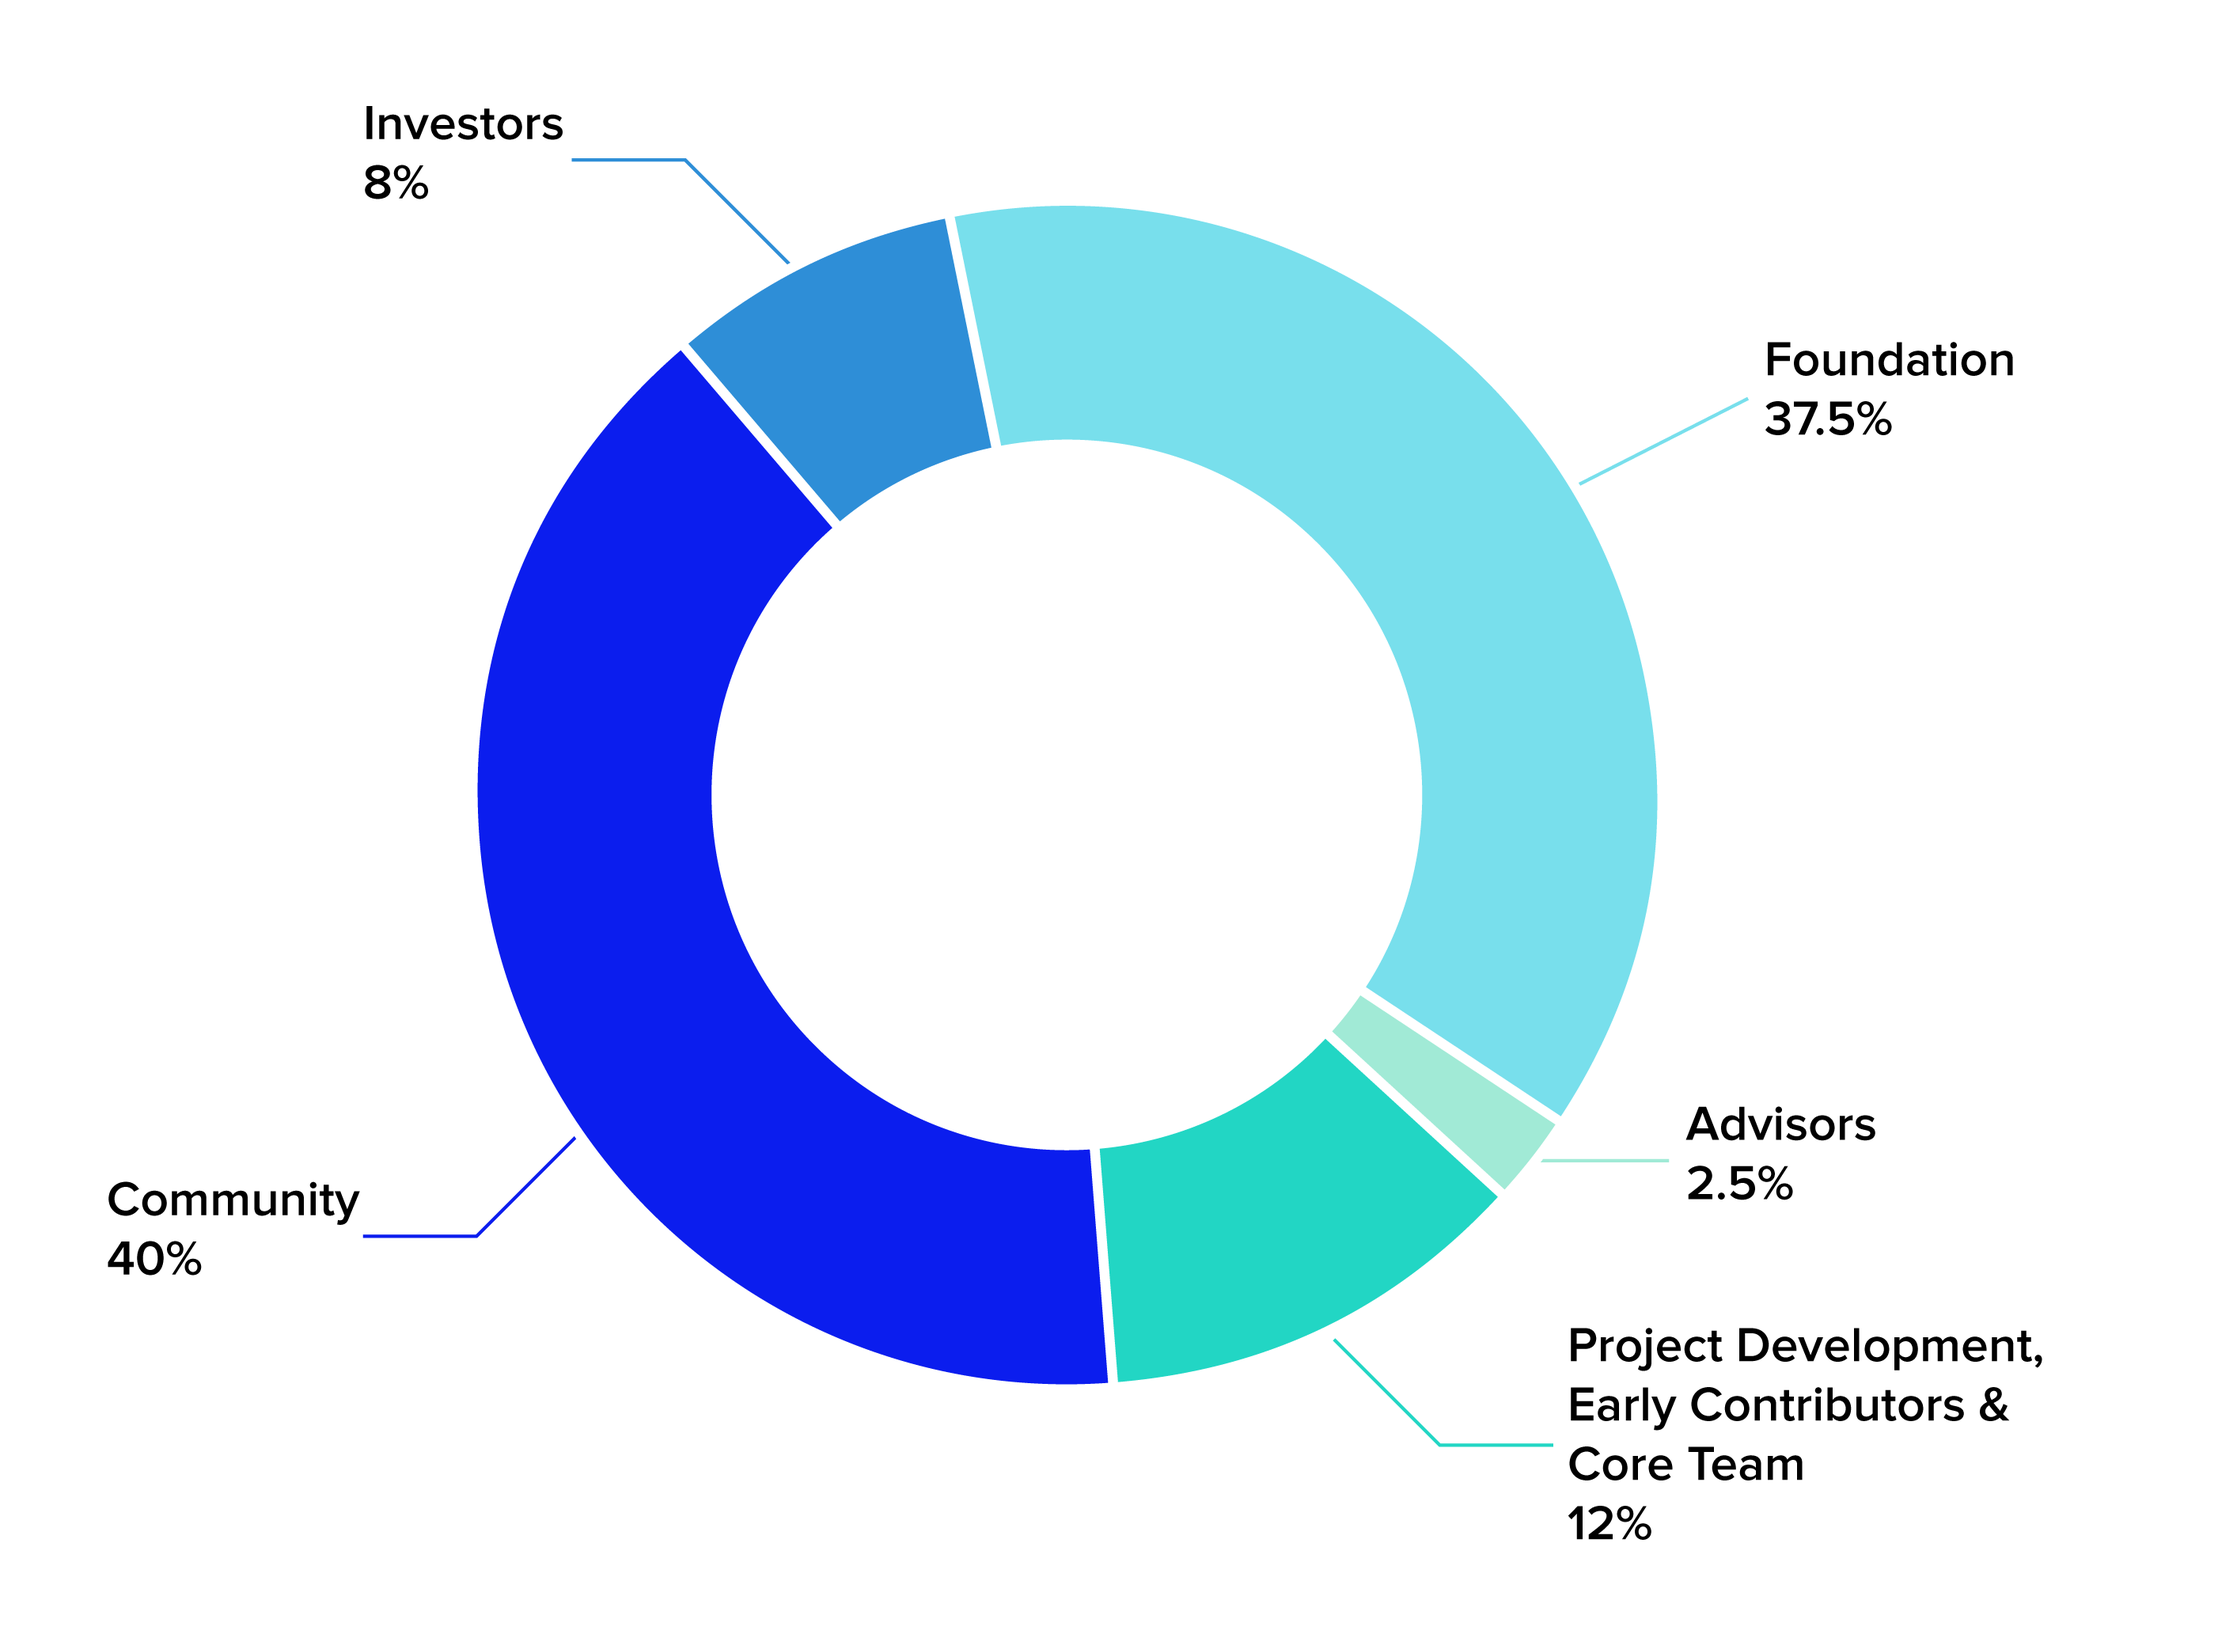
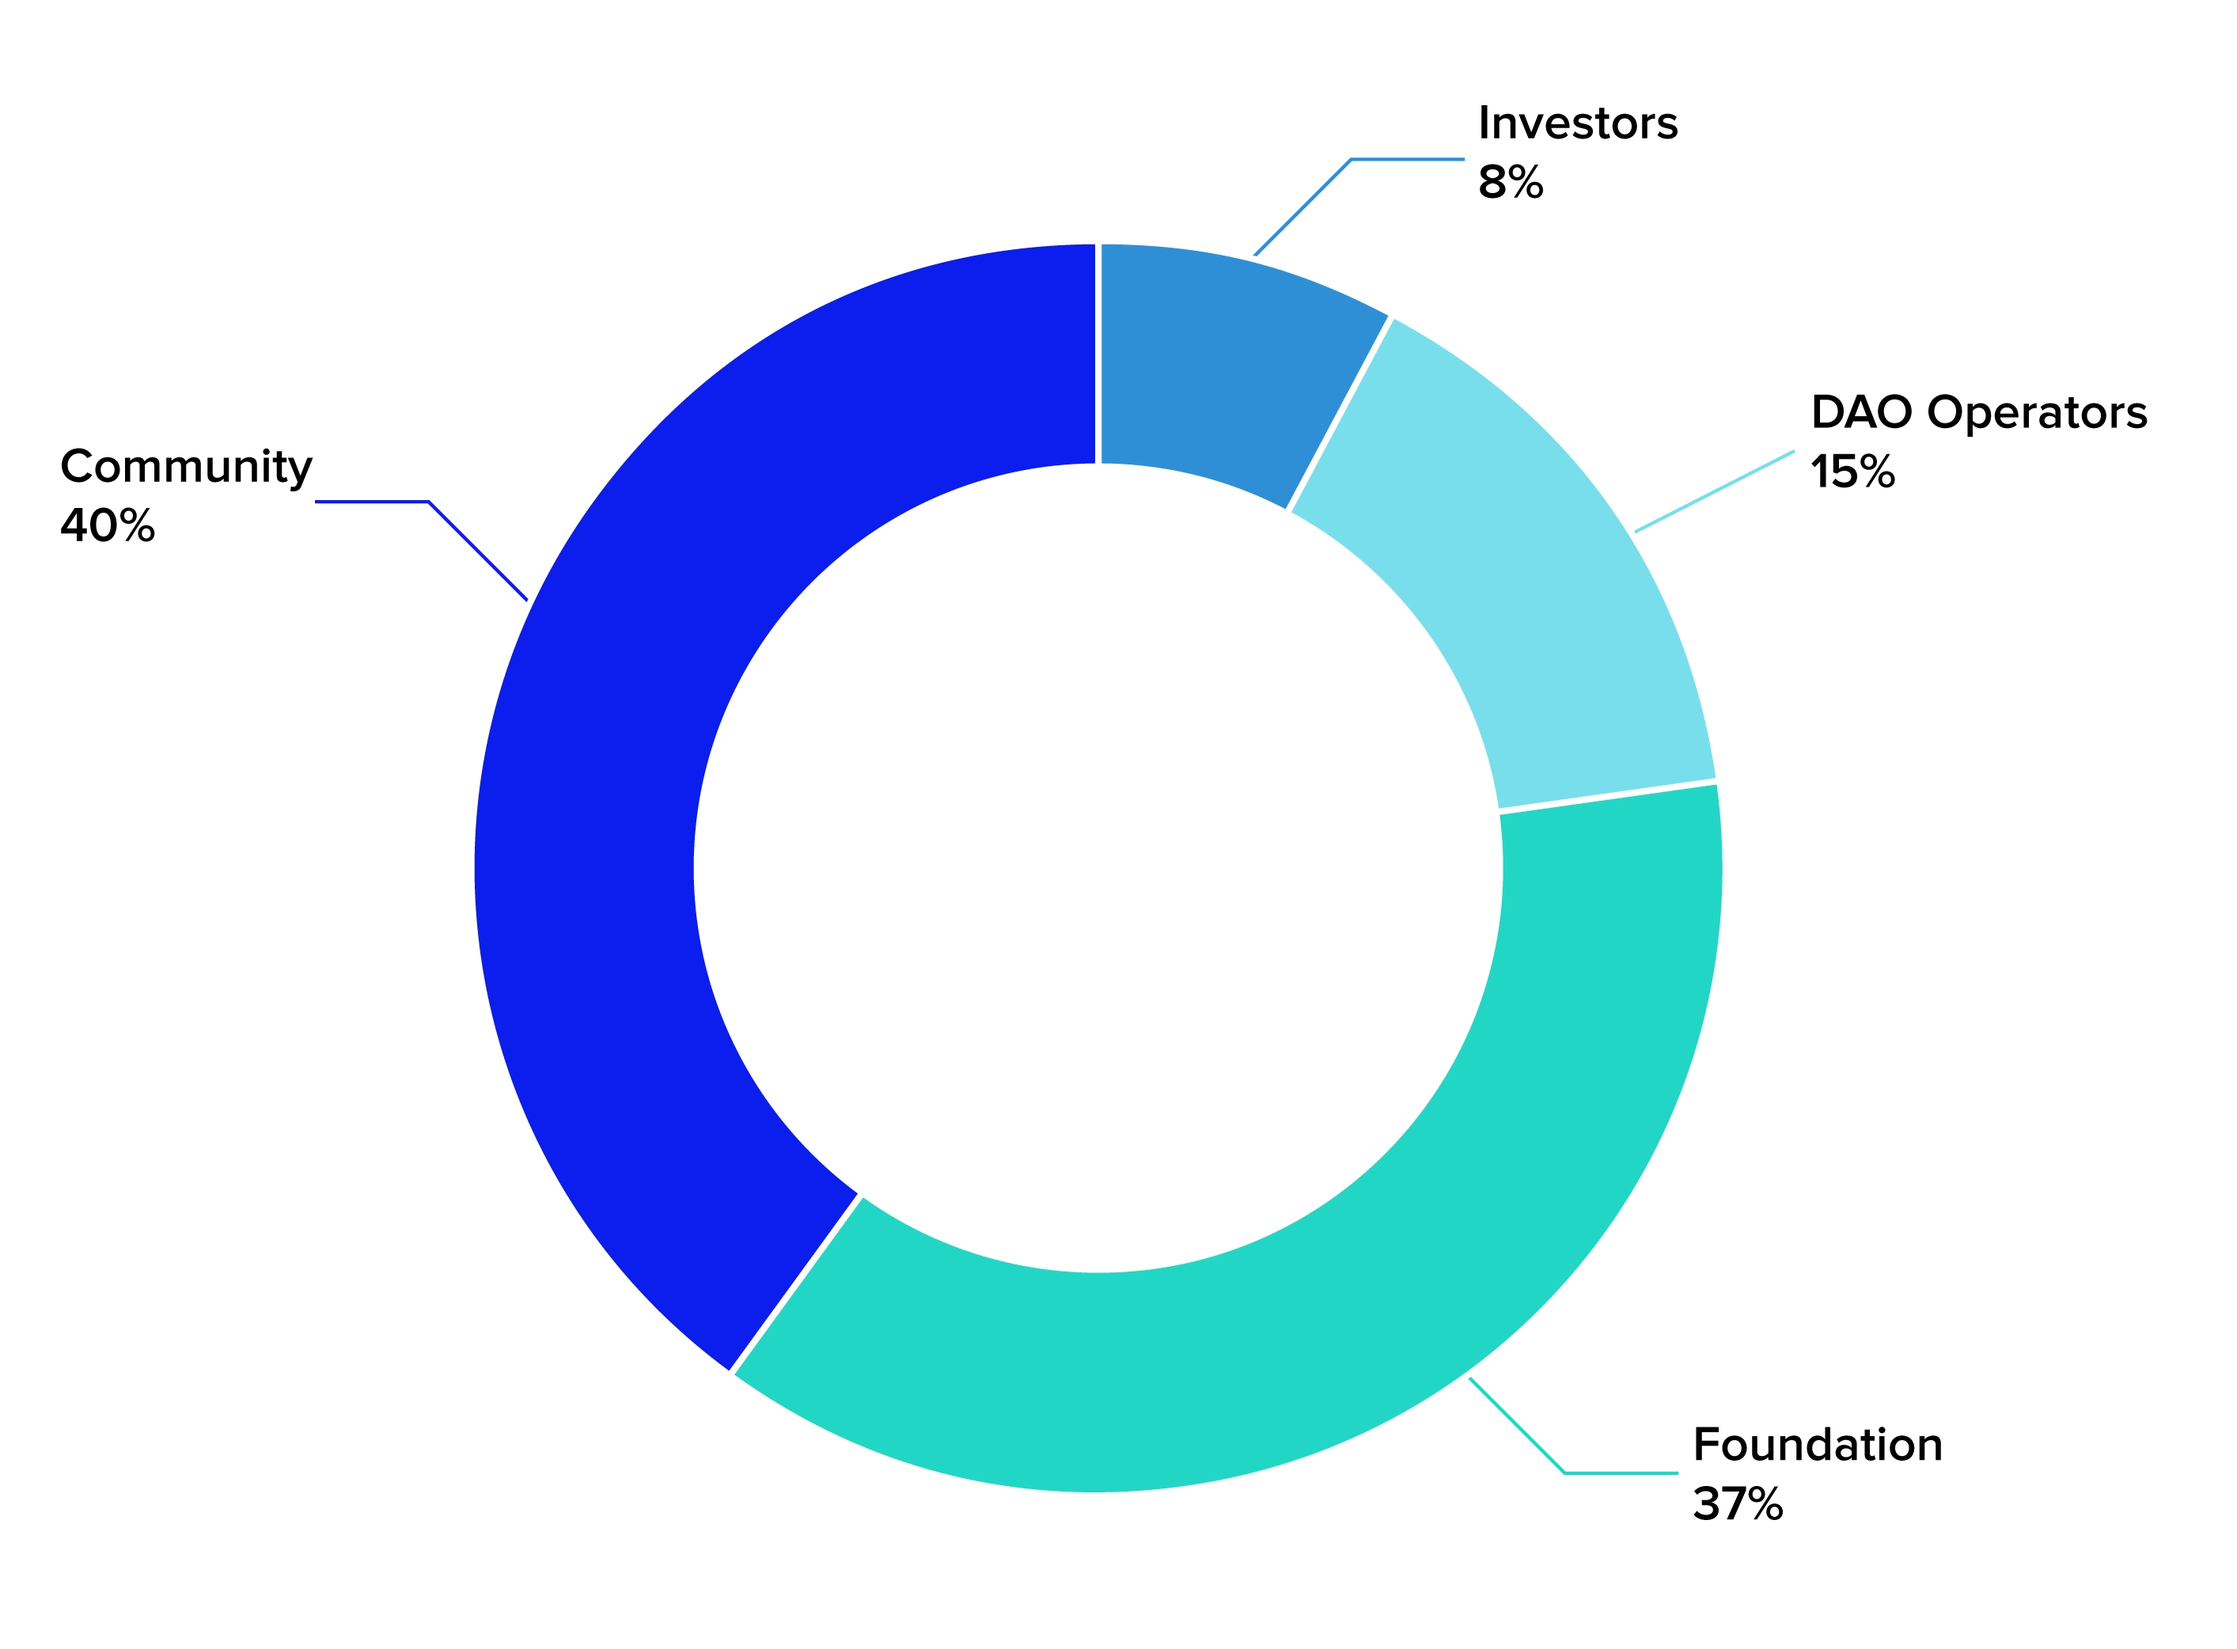
update token allocation images and FAQ

diff --git a/src/app/components/SciTokenPage.tsx b/src/app/components/SciTokenPage.tsx
@@ -28,12 +28,17 @@ const faqs = [
   {
     question: 'How will the foundation funds be used?',
     answer:
-      'They will be used for ecosystem development, partnerships, legal, grants, bounties, logistical costs and hiring future employees/contributors beyond team allocation.',
+      'They will be used for funding research, ecosystem development, partnerships, legal, grants, bounties, logistical costs and hiring future employees/contributors beyond team allocation.',
   },
   {
     question: 'How will the community funds be used?',
     answer:
       'They will be used for the creation of liquidity pools, PO to SCI exchange program, and to expand and strengthen our community through marketing and outreach efforts.',
+  },
+  {
+    question: 'Who are part of the DAO Operators?',
+    answer:
+      'Founders, advisors, early contributors and members working on project development are considered DAO Operators.',
   },
   {
     question: 'Is there a hard cap for the SCI token supply?',
